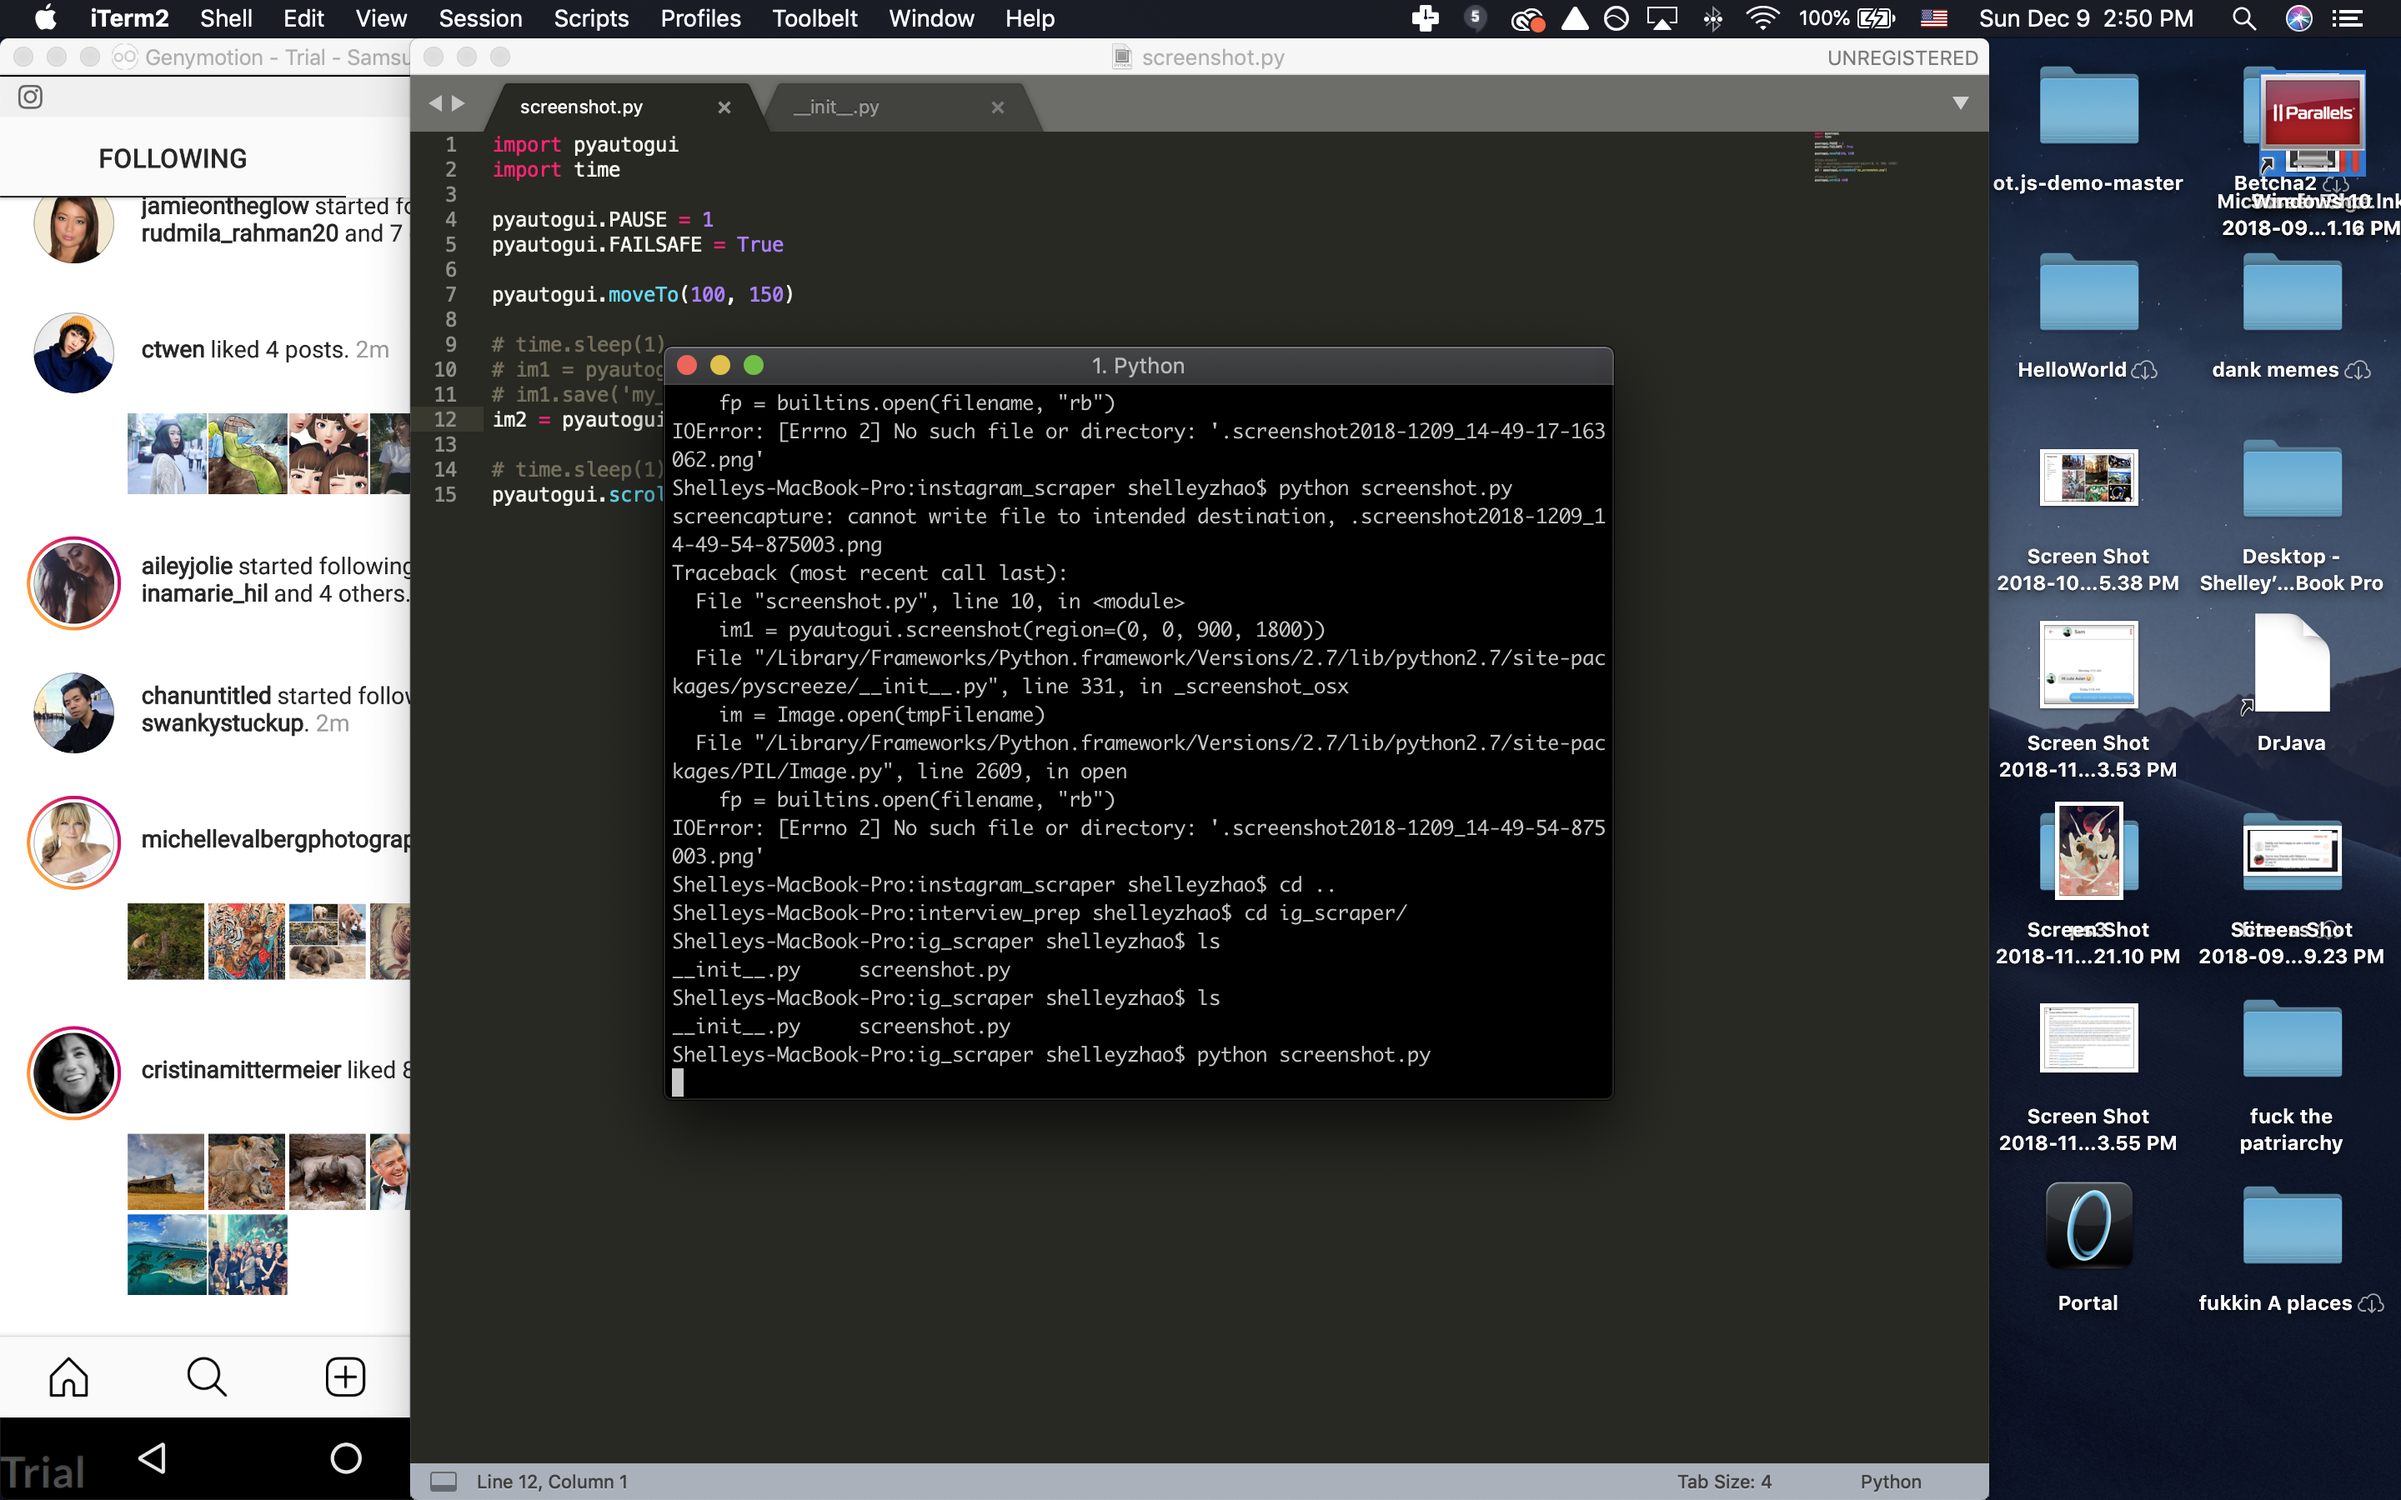
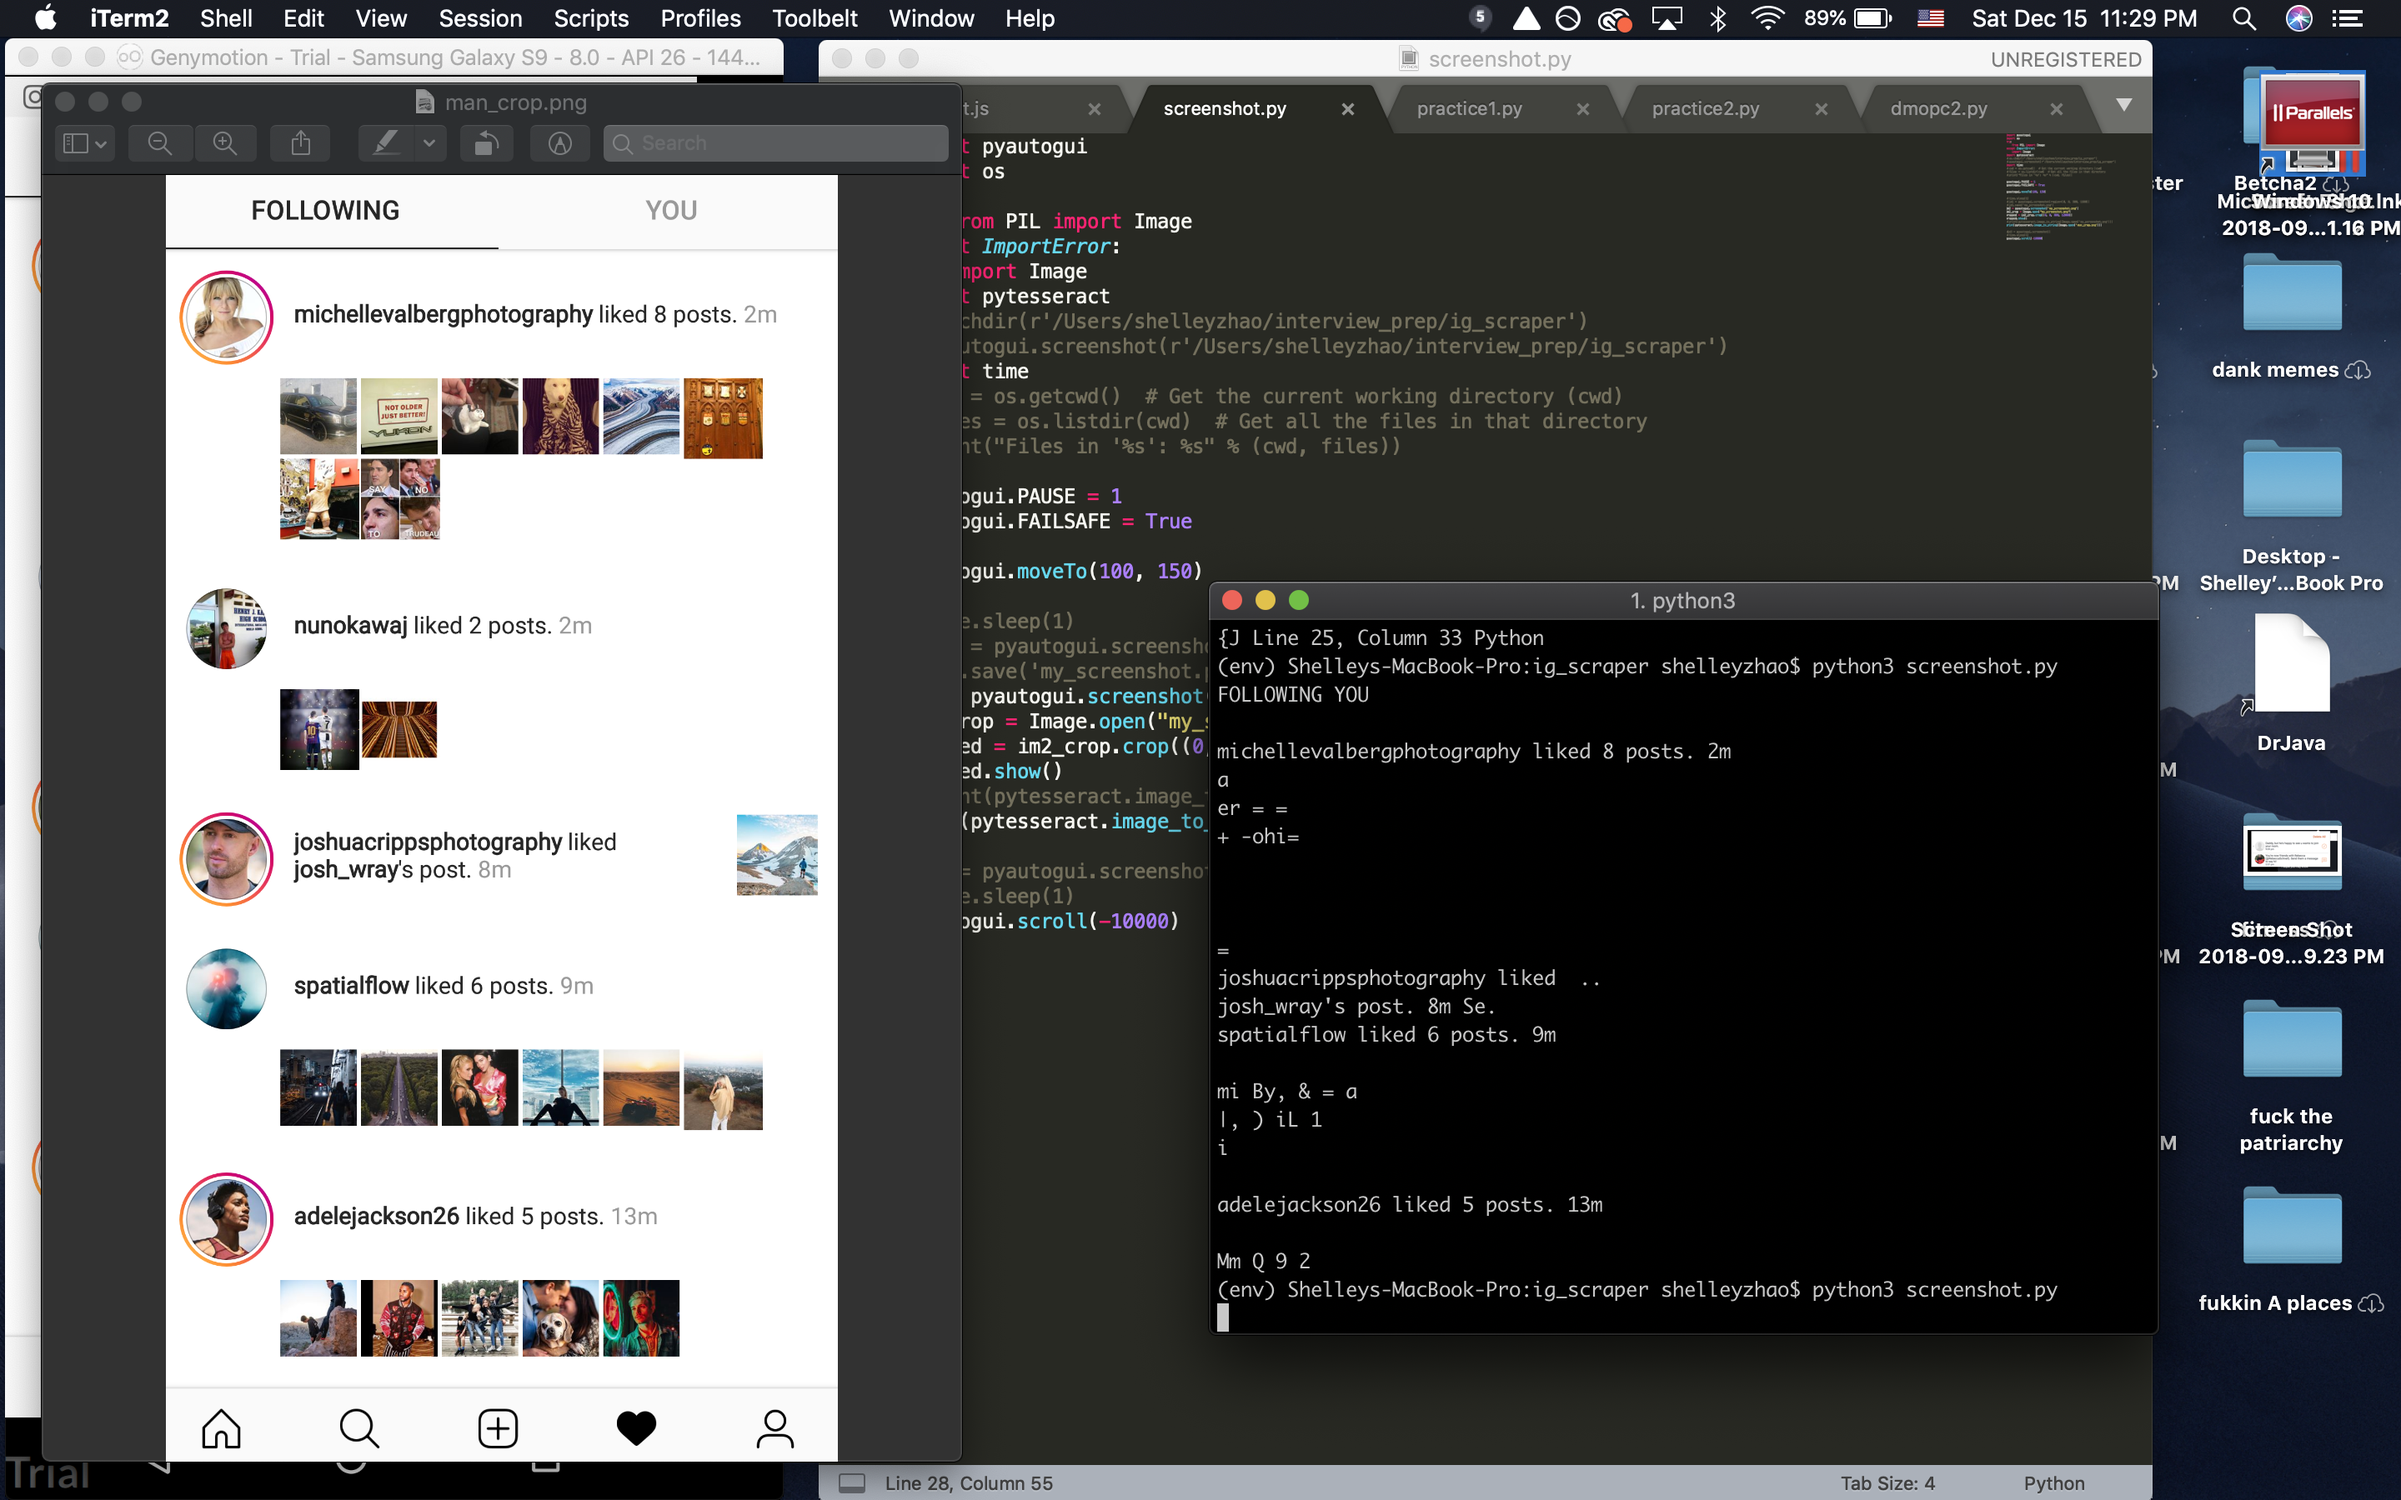
got ocr integrated, hacky way to get around screenshot bug

diff --git a/screenshot.py b/screenshot.py
@@ -1,8 +1,16 @@
 import pyautogui
 import os
-os.chdir(r'/Users/shelleyzhao/interview_prep/ig_scraper')
+try:
+    from PIL import Image
+except ImportError:
+    import Image
+import pytesseract
+# os.chdir(r'/Users/shelleyzhao/interview_prep/ig_scraper')
 # pyautogui.screenshot(r'/Users/shelleyzhao/interview_prep/ig_scraper')
 import time
+# cwd = os.getcwd()  # Get the current working directory (cwd)
+# files = os.listdir(cwd)  # Get all the files in that directory
+# print("Files in '%s': %s" % (cwd, files))
 
 pyautogui.PAUSE = 1
 pyautogui.FAILSAFE = True
@@ -12,7 +20,13 @@ pyautogui.moveTo(100, 150)
 # time.sleep(1)
 # im1 = pyautogui.screenshot(region=(0, 0, 900, 1800))
 # im1.save('my_screenshot.png')
-# im2 = pyautogui.screenshot('my_screenshot.png')
-im3 = pyautogui.screenshot()
+im2 = pyautogui.screenshot('my_screenshot.png')
+im2_crop = Image.open("my_screenshot.png")
+cropped = im2_crop.crop((0, 0, 800, 12000))
+cropped.show()
+# print(pytesseract.image_to_string(Image.open('my_screenshot.png')))
+print(pytesseract.image_to_string(Image.open('man_crop.png')))
+
+#im3 = pyautogui.screenshot()
 # time.sleep(1)
-pyautogui.scroll(-100)
+pyautogui.scroll(-10000)
